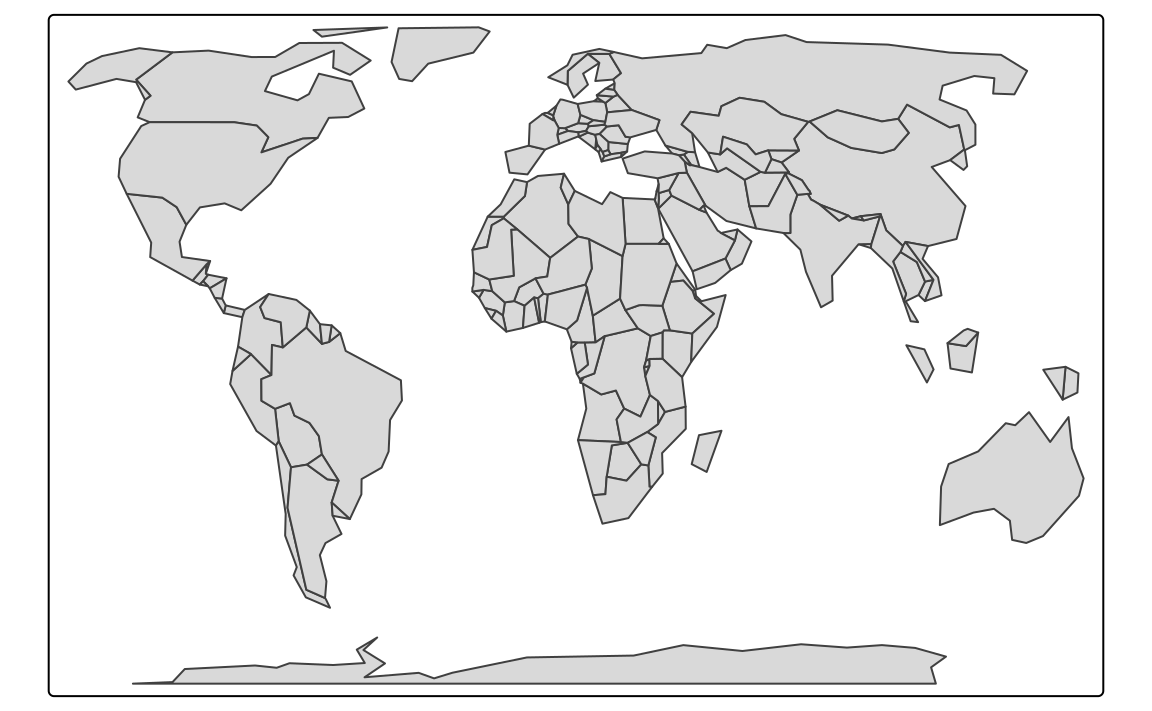
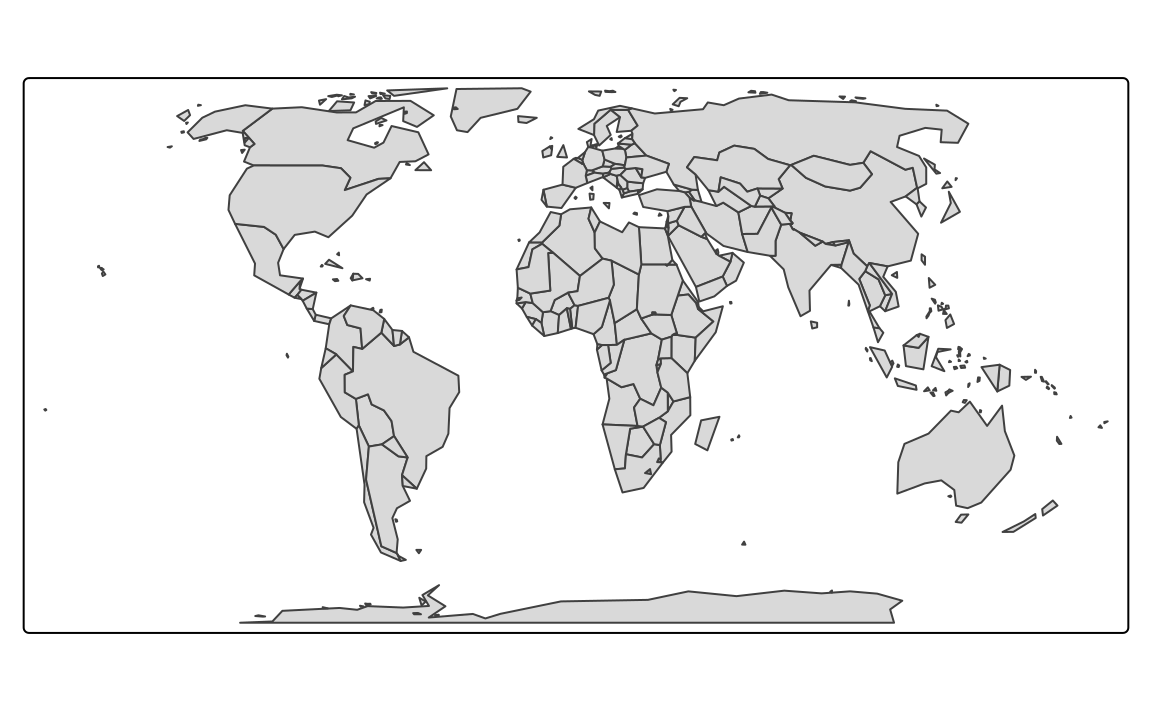
Deploy commit: fixes typo 6df5d1125b2d2fc3b86aa8dbb27a36197b9f4bd5

diff --git a/XX-data_processing.html b/XX-data_processing.html
@@ -370,7 +370,7 @@ gtag('config', 'G-ER2GMPEJNF', { 'anonymize_ip': true});
 <div class="cell" data-layout-align="center">
 <div class="sourceCode" id="cb4"><pre class="downlit sourceCode r code-with-copy"><code class="sourceCode R"><span><span class="va">worldvector_s2</span> <span class="op">=</span> <span class="fu"><a href="https://rdrr.io/pkg/rmapshaper/man/ms_simplify.html">ms_simplify</a></span><span class="op">(</span><span class="va">worldvector</span>, keep <span class="op">=</span> <span class="fl">0.05</span>,</span>
 <span>                             keep_shapes <span class="op">=</span> <span class="cn">TRUE</span>, explode <span class="op">=</span> <span class="cn">TRUE</span><span class="op">)</span></span>
-<span><span class="fu"><a href="https://r-tmap.github.io/tmap/reference/tm_shape.html">tm_shape</a></span><span class="op">(</span><span class="va">worldvector_s1</span><span class="op">)</span> <span class="op">+</span></span>
+<span><span class="fu"><a href="https://r-tmap.github.io/tmap/reference/tm_shape.html">tm_shape</a></span><span class="op">(</span><span class="va">worldvector_s2</span><span class="op">)</span> <span class="op">+</span></span>
 <span>  <span class="fu"><a href="https://r-tmap.github.io/tmap/reference/tm_polygons.html">tm_polygons</a></span><span class="op">(</span><span class="op">)</span></span></code><button title="Copy to Clipboard" class="code-copy-button"><i class="bi"></i></button></pre></div>
 </div>
 <p><a href="#fig-vectordown-3" class="quarto-xref">Figure&nbsp;<span>A.1 (c)</span></a> contains a simplified map, where each spatial geometry of the original map still exists, but in a less detailed form.</p>

diff --git a/XX-visual-variables.html b/XX-visual-variables.html
@@ -761,7 +761,7 @@ Figure&nbsp;7.8: Example of a map where text sizes represent elevations of the v
 <span>             shape.scale <span class="op">=</span> <span class="fu">tm_scale</span><span class="op">(</span>values <span class="op">=</span> <span class="va">my_icons</span><span class="op">)</span><span class="op">)</span></span></code><button title="Copy to Clipboard" class="code-copy-button"><i class="bi"></i></button></pre></div>
 </div>
 <div class="cell" data-layout-align="center" data-layout-row="4">
-<div id="fig-tmsymshape" class="cell quarto-float quarto-figure quarto-figure-center anchored" data-layout-align="center" data-layout-row="4">
+<div id="fig-tmsymshape" class="cell quarto-float quarto-figure quarto-figure-center anchored" data-layout-row="4" data-layout-align="center">
 <figure class="quarto-float quarto-float-fig figure"><div aria-describedby="fig-tmsymshape-caption-0ceaefa1-69ba-4598-a22c-09a6ac19f8ca">
 <div class="cell-output-display">
 <div id="fig-tmsymshape-1" class="quarto-float quarto-figure quarto-figure-center anchored" data-fig-align="center">
